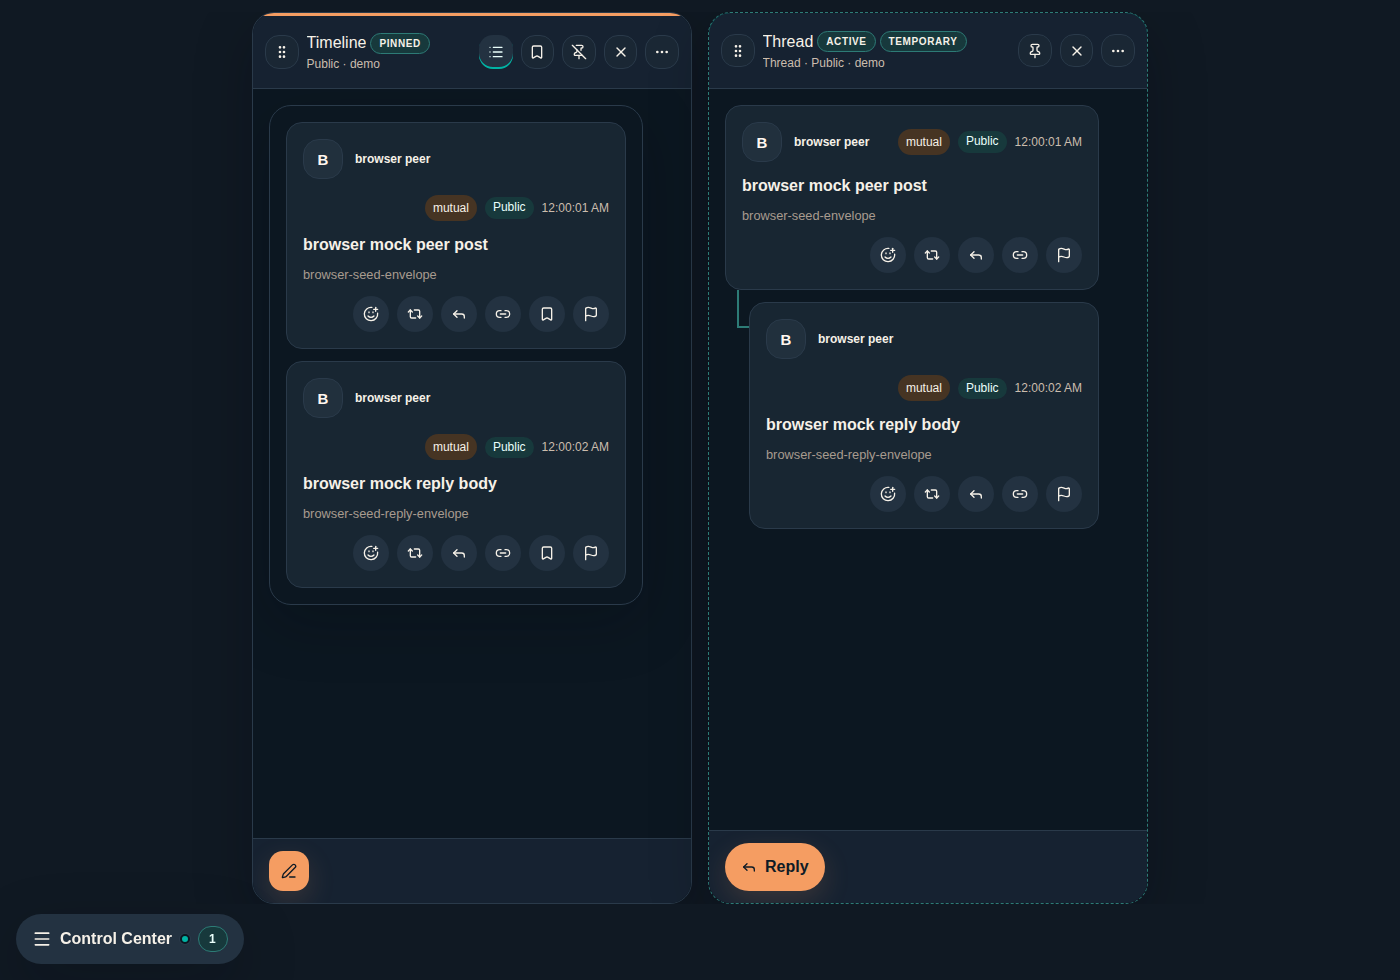
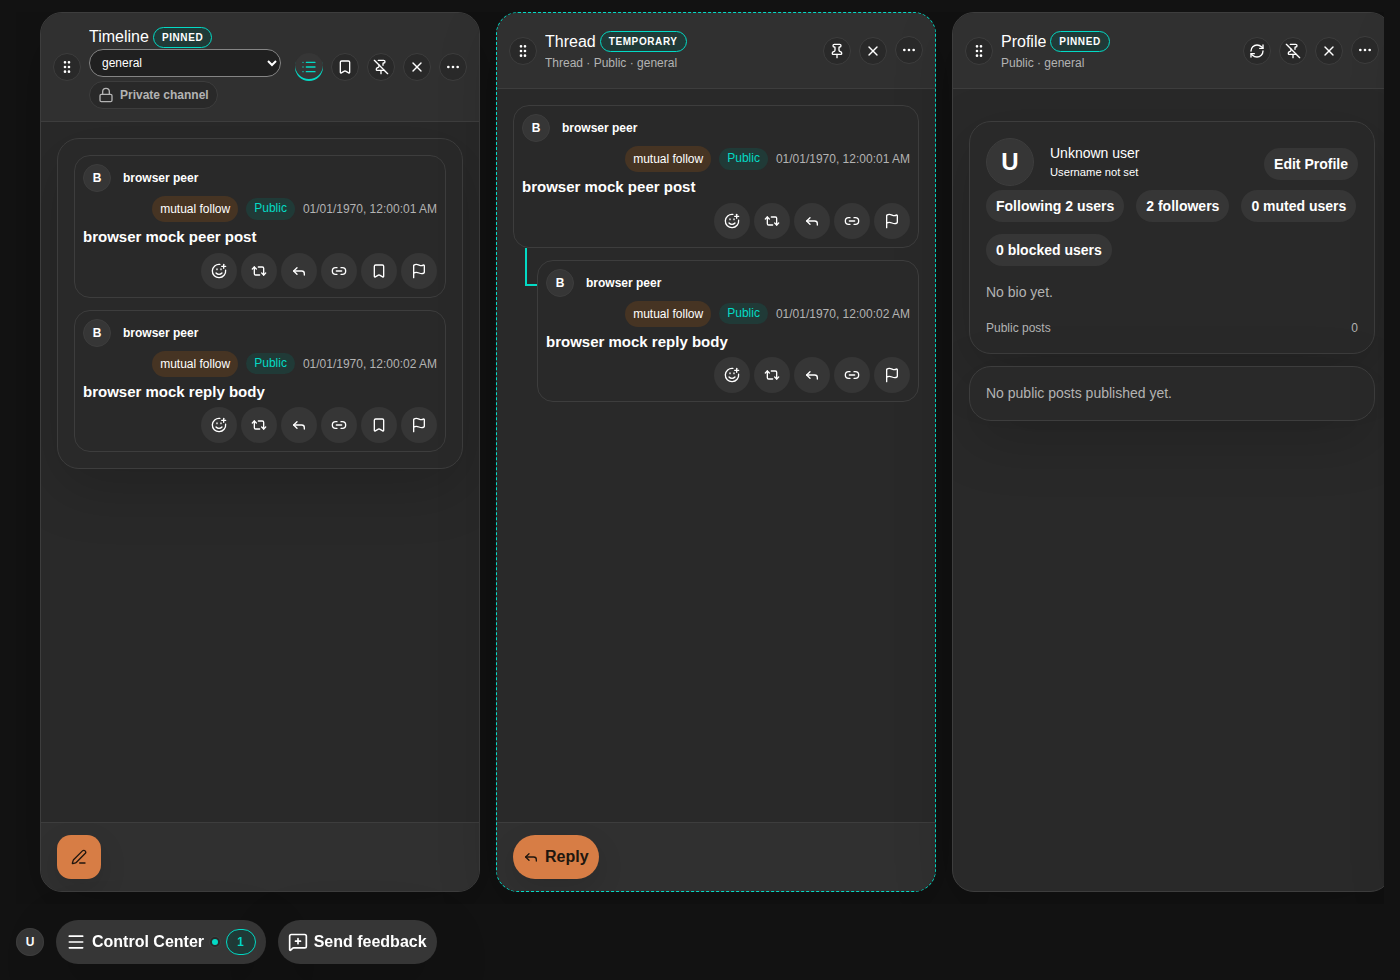
docs: READMEを v0.2.4-preview.1 時点の実装状況へ更新 (#1048)
- Linux 配布の参照を v0.2.0-preview.2 固定から最新 Release（v0.2.4-preview.1 以降、5本体同時公開）へ変更し、インストーラー署名と更新 manifest 署名を区別
- 「3分で試す」を実際の初回フロー（言語選択・年齢確認付きアプリ規約同意 → Community Node 規約同意 → プロフィール設定 → 投稿 → チャンネル → フィードバック）に合わせ、診断レポートが開発者モード限定である前提を明記
- Live / Game / Stream / Metaverse が既定で非表示であること、Metaverse Dome が実験機能で後方互換を保証しないことを記載
- ブロック、Community Index 検索、鍵の暗号化 export/import と複数アカウント、端末バックアップ／復元、年齢自己申告と成人向け既定非表示、多言語 UI とテーマ、アプリ内テスターフィードバック、開発者ログビューアを利用できる範囲へ追加
- CHANGELOG と docs/legal の各文書へのリンクを追加し、README.ja.md を同じ構造で同期
- スクリーンショットをブラウザ mock プレビュー（Timeline / Thread / Profile、現行ダークテーマ）で再撮影
- README と矛盾していた mvp-user-quickstart.md（リリース参照、診断レポートの前提、tauri:dev）、linux-cli.md（リリース参照）、Builder Preview 計画（Linux AppImage / Deb workstream を landed、Launch Checklist の公開項目を完了）を同期

Claude-Session: https://claude.ai/code/session_01VX9D3T6CskJn7bRn9pz2ba

diff --git a/README.md b/README.md
@@ -4,7 +4,7 @@ English | [日本語](./README.ja.md)
 
 kukuri is a topic-first P2P social app. Find a topic you care about, join a public conversation, or move into a smaller private channel while keeping your account and posts rooted on your own device.
 
-![kukuri desktop preview showing a topic timeline and its reply thread](./docs/assets/readme/kukuri-desktop-preview.png)
+![kukuri desktop preview showing Timeline, Thread, and Profile columns with the Control Center bar](./docs/assets/readme/kukuri-desktop-preview.png)
 
 ## Download the Builder Preview
 
@@ -16,41 +16,49 @@ kukuri is a topic-first P2P social app. Find a topic you care about, join a publ
 | Platform | Current support |
 | --- | --- |
 | Windows 10 / 11 | NSIS installer from the latest GitHub Release |
-| Linux | AppImage / Deb (x86_64), CLI (x86_64, aarch64), published together in [v0.2.0-preview.2](https://github.com/KingYoSun/kukuri/releases/tag/v0.2.0-preview.2) |
+| Linux | AppImage / Deb (x86_64) and CLI (x86_64, aarch64), published in the same Release as the Windows installer since `v0.2.4-preview.1` (2026-09-15); every Preview Release builds all five packages from one source |
 | macOS | No package is currently provided |
 
-Preview installers may be unsigned. Windows SmartScreen can therefore show a warning; check the release notes before running the installer.
+Preview installers do not carry an OS code signature, so Windows SmartScreen can show a warning; check the release notes before running the installer. In-app updates are separate: the update manifest is signed and the app rejects a tampered manifest.
 
-For detailed setup and recovery help, see the [user quickstart](./docs/runbooks/mvp-user-quickstart.md) and [troubleshooting guide](./docs/runbooks/mvp-troubleshooting.md).
+For detailed setup and recovery help, see the [user quickstart](./docs/runbooks/mvp-user-quickstart.md) and [troubleshooting guide](./docs/runbooks/mvp-troubleshooting.md). Released changes are listed in the [CHANGELOG](./CHANGELOG.md).
 
 ## What You Can Do
 
 - Find and follow topics, then publish posts and replies in threaded conversations.
 - Keep public posts and private channels under the same topic instead of splitting the community into separate spaces.
-- Follow people, react, repost, quote, bookmark posts, and mute users locally.
+- Follow people, react, repost, quote, bookmark posts, and mute or block users locally. Blocking hides posts in both directions.
+- Search and discover posts and topics through the Community Index of a consenting Community Node.
 - Exchange direct messages with mutual connections and share images or videos.
 - Receive local and operating-system notifications for replies, mentions, follows, reposts, and messages.
+- Export your account key as an encrypted passphrase-protected string, import it on another device, and switch between several accounts without restarting.
+- Back up one account to a single encrypted file and restore it on another device.
+- Use the app in Japanese, English, or Simplified Chinese with a light or dark theme.
 - Keep your account, posts, and local state across restarts, temporary offline periods, and Preview updates.
 
 ## Try It in 3 Minutes
 
 1. Install and launch the Windows Preview, use a published [Linux AppImage](docs/runbooks/linux-appimage-smoke.md) or [Deb](docs/runbooks/linux-deb.md), or [run from source](#development-quickstart). See [Linux CLI usage](docs/runbooks/linux-cli.md) for the separate CLI profile.
-2. Wait a few seconds for the preloaded Community Node to become `ready`, then open a starter topic.
-3. Publish a public post and reply to an existing post.
-4. Create or join a private channel under the same topic.
-5. Open `Settings -> Release`, export the diagnostic report, and send feedback through GitHub.
+2. On the first screen, pick a language, confirm that you are 18 or older, and accept the app terms and privacy policy. kukuri does not start any network connection until you accept.
+3. Read "What is a community node?", choose "Review terms", and accept that node's documents. Connection setup starts only after this explicit consent; choosing "Later" lets you resume from Explore or the Community Node settings.
+4. Open the Profile column and set your display name, username, and bio.
+5. Open a starter topic (`kukuri:topic:general`, `kukuri:topic:dev`, or `kukuri:topic:test`), publish a public post, and reply to an existing post.
+6. Create or join a private channel under the same topic from the "Private channel" button at the top of the Timeline column.
+7. Send feedback with the "Send feedback" button in the bottom bar (delivered to a Community Node that accepts tester feedback) or through GitHub. To attach a diagnostic report, enable developer mode in `Settings -> Developer`, then copy or export the report from `Settings -> Release`.
 
 The default diagnostic report omits secret keys, authentication tokens, private-channel secrets, invite/share tokens, direct-message bodies, and local database paths.
 
 ## Preview Status and Limits
 
 - Preview targets are Windows NSIS, Linux x86_64 AppImage / Deb, and Linux x86_64/aarch64 CLI. Availability follows the published Release asset list; generation alone is not publication. Deb updates require explicit application and OS authorization; cancellation does not trigger another authentication method. macOS has no package.
+- The first launch requires an age self-attestation and acceptance of the app terms; each Community Node additionally requires explicit consent to its own documents before the app uses it. Adult-labeled posts are hidden until you allow them in `Settings -> Safety`.
 - A direct message needs another test peer and a mutual relationship. P2P behavior is easiest to evaluate with two devices or two isolated app instances.
-- Live, Metaverse, and game-room surfaces are still evolving. Some extended features remain staged behind developer mode, and the Stream surface does not yet include a media player.
-- Preview updates are expected to preserve your account-identifying key, profile, follows, posts, local database state, Iroh data, Community Node settings, private-channel access, and the notification inbox. Keep the app data directory before uninstalling or resetting if you need to retain local state.
+- Live, Game, Stream, and Metaverse surfaces are hidden by default and appear only after enabling developer mode in `Settings -> Developer`. Metaverse Domes (Dome hosting, seamless transition, spatial audio, follow camera, connection map, and Dome management) are experimental: their data formats have no backward-compatible decoding or migration guarantee. The Stream surface does not yet include a media player.
+- Your account key is stored only on your device. There is no central reissue or recovery; use the encrypted key export or the device backup to keep a copy.
+- Preview updates are expected to preserve your account-identifying key, profile, follows, posts, local database state, Iroh data, Community Node settings, private-channel access, and the notification inbox. A device backup does not carry Community Node tokens, consent state, the age attestation, or the adult-content setting; you redo those after a restore. Keep a backup before uninstalling or resetting if you need to retain local state.
 - This is testing software. Please attach a sanitized diagnostic report when reporting connectivity, upgrade, or recovery problems.
 
-See the [Builder Preview plan](./docs/progress/2026-04-16-mvp-builder-preview-plan.md) for the current milestone and the [release runbook](./docs/runbooks/release.md) for packaging and data-safety gates.
+See the [Builder Preview plan](./docs/progress/2026-04-16-mvp-builder-preview-plan.md) for the current milestone, the [CHANGELOG](./CHANGELOG.md) for what each Preview Release changed, and the [release runbook](./docs/runbooks/release.md) for packaging and data-safety gates.
 
 ## How kukuri Works
 
@@ -67,20 +75,23 @@ The durable responsibility boundary is documented in [P2P-first Community Node r
 
 | Area | Current Builder Preview capability |
 | --- | --- |
-| Topics and posts | Topic discovery, public posts, replies and threads, reactions, reposts, quotes, bookmarks, and local mute |
+| Topics and posts | Topic discovery, Community Index search with indexing-status display, public posts, replies and threads, reactions, reposts, quotes, bookmarks, and local mute |
 | Private conversation | Invite-only, mutual-follow, and mutual-follow-plus channels with epoch-aware membership; pairwise mutual-only direct messages |
-| People and activity | Public profiles, follow/unfollow, mutual follows and connections through people you follow, local and OS notifications |
+| People and activity | Public profiles, follow/unfollow, block with two-way hiding, mutual follows and connections through people you follow, local and OS notifications |
 | Media | Image and video attachments in posts and direct messages |
-| Connectivity and recovery | Static-peer links, seeded DHT discovery, Community Node assistance, offline-capable local state, restart recovery, and late-join backfill |
-| Preview operations | In-app update checks, sanitized diagnostics, feedback links, provenance display, and distributed report routing |
+| Safety and account portability | Age self-attestation, adult self-labels hidden by default, encrypted account-key export/import, multi-account switching, and encrypted device backup/restore |
+| Localization and appearance | Japanese, English, and Simplified Chinese UI; light and dark themes tuned for WCAG 2.2 AA contrast |
+| Connectivity and recovery | Static-peer links, seeded DHT discovery, assistance only from Community Nodes you explicitly consented to, offline-capable local state, restart recovery, and late-join backfill |
+| Preview operations | In-app update checks, in-app tester feedback, sanitized diagnostics and an in-app log viewer in developer mode, provenance display, and distributed report routing |
+| Experimental (developer mode) | Live sessions, game rooms, the Stream column, and Metaverse Domes |
 
-The [foundation progress record](./docs/progress/2026-03-10-foundation.md), accepted [ADRs](./docs/adr/), tests, and [harness scenarios](./harness/scenarios/) define the detailed shipped baseline.
+The [foundation progress record](./docs/progress/2026-03-10-foundation.md) defines the Phase 6 baseline; later changes are tracked in the [CHANGELOG](./CHANGELOG.md), accepted [ADRs](./docs/adr/), tests, and [harness scenarios](./harness/scenarios/).
 
 ## Longer-Term Direction
 
 - Optional search, discovery, recommendation, gateway, and bridge services can grow around the P2P core without becoming mandatory canonical stores.
 - Community Node trust, moderation, policy-assist, and operator tooling can evolve within each node's declared capability and authority scope.
-- Live, Metaverse, game, and richer media experiences can mature without changing the topic-first ownership and synchronization boundaries.
+- Live, game, Stream, and Metaverse experiences are accepted and implemented as experimental features (ADR 0035 to 0045); promoting them into the product scope must not change the topic-first ownership and synchronization boundaries.
 
 These are directions, not a promise that every capability is available in the current Preview.
 
@@ -88,7 +99,8 @@ These are directions, not a promise that every capability is available in the cu
 
 - Report reproducible bugs and regressions in [GitHub Issues](https://github.com/KingYoSun/kukuri/issues).
 - Use [GitHub Discussions](https://github.com/KingYoSun/kukuri/discussions) for questions, product ideas, UX proposals, and early discussion of larger changes.
-- Include the sanitized report from `Settings -> Release` for connectivity, updater, and recovery problems.
+- The in-app "Send feedback" button delivers tester feedback to a Community Node that opts into receiving it.
+- For connectivity, updater, and recovery problems, enable developer mode in `Settings -> Developer` and include the sanitized report from `Settings -> Release`.
 - Community Node operators are welcome to report deployment, disclosure, moderation, and distributed-reporting feedback through the same GitHub entry points.
 
 ## Contributing
@@ -127,11 +139,12 @@ cargo xtask test
 cargo xtask e2e-smoke
 ```
 
-For browser-only frontend work, use `npx pnpm@10.16.1 --dir apps/desktop dev`. The [development runbook](./docs/runbooks/dev.md) lists targeted checks, UI validation, Community Node workflows, and platform-specific setup.
+Browser-level UI changes also run `cargo xtask desktop-ui-check`. For browser-only frontend work, use `npx pnpm@10.16.1 --dir apps/desktop dev`. The [development runbook](./docs/runbooks/dev.md) lists targeted checks, UI validation, Community Node workflows, and platform-specific setup.
 
 ## Documentation
 
 - [Documentation index](./docs/README.md)
+- [CHANGELOG](./CHANGELOG.md)
 - [Builder Preview plan](./docs/progress/2026-04-16-mvp-builder-preview-plan.md)
 - [Foundation and shipped baseline](./docs/progress/2026-03-10-foundation.md)
 - [User quickstart](./docs/runbooks/mvp-user-quickstart.md)
@@ -140,6 +153,7 @@ For browser-only frontend work, use `npx pnpm@10.16.1 --dir apps/desktop dev`. T
 - [Release runbook](./docs/runbooks/release.md)
 - [P2P-first Community Node responsibility boundary](./docs/architecture/p2p-first-community-node-responsibility-boundary.md)
 - [Architecture Decision Records](./docs/adr/)
+- [Terms of service](./docs/legal/terms-of-service.md), [privacy policy](./docs/legal/privacy-policy.md), and [external transmission notice](./docs/legal/external-transmission-notice.md)
 - [Third-party notices](./docs/THIRD_PARTY_NOTICES.md)
 
 ## License

diff --git a/docs/runbooks/mvp-user-quickstart.md b/docs/runbooks/mvp-user-quickstart.md
@@ -3,7 +3,7 @@
 ## 対象
 
 - Builder Previewを試すデスクトップ利用者向け
-- Windows NSIS、Linux x86_64 AppImage／Debを[v0.2.0-preview.2](https://github.com/KingYoSun/kukuri/releases/tag/v0.2.0-preview.2)で公開済み
+- Windows NSIS、Linux x86_64 AppImage／Debを[最新のGitHub Release](https://github.com/KingYoSun/kukuri/releases/latest)で同時公開済み（[v0.2.4-preview.1](https://github.com/KingYoSun/kukuri/releases/tag/v0.2.4-preview.1)以降、各Previewリリースは同一sourceから5本体を公開する）
 - Linuxは[AppImage手順](linux-appimage-smoke.md)または[Debの導入・署名付き更新・削除手順](linux-deb.md)を参照。CLI x86_64／aarch64も同Releaseで配布し、[専用手順](linux-cli.md)を参照
 
 ## 3分で試す
@@ -19,7 +19,7 @@
 6. 同じトピック内でプライベートチャンネルを作るか参加する。入口はタイムラインカラム上部の「プライベートチャンネル」ボタン、または「コントロールセンター → 場所 → チャンネル作成・参加」。招待・共有リンクは、参加後にタイムラインカラム上部の「設定と共有」（またはコントロールセンターのチャンネル設定）から作成する。
 7. 「見つける」「通知」「メッセージ」の各カラムを開き、主要機能の入口を確認する。同意後も検索が使えない場合は、表示された理由と「状態を再確認」または「コミュニティノード設定を開く」に従う。接続の手助けと検索機能の提供は別なので、検索非提供のノードでは別の検索提供ノードを選ぶ。
 8. 設定でコミュニティノードの診断情報を確認し、フィードバックを送る。
-9. 「設定 → リリース」で更新状態を確認し、診断レポートをコピーまたは書き出す。
+9. 「設定 → リリース」で更新状態を確認する。診断レポートのコピー・書き出しは「設定 → 開発者」で開発者モードを有効にしたときだけ「設定 → リリース」に表示される。
 
 ## 確認するポイント
 
@@ -39,14 +39,15 @@ cargo xtask doctor
 
 cd apps/desktop
 npx pnpm@10.16.1 install
-npx pnpm@10.16.1 dev
+npx pnpm@10.16.1 tauri:dev
 ```
 
-起動後の確認ポイントはWindowsプレビューと同じです。
+`tauri:dev`はデスクトップアプリ本体（Tauriバックエンド込み）を起動する。`npx pnpm@10.16.1 dev`はブラウザーだけでフロントエンドを表示する開発用で、P2P・保存・更新は動作しない。起動後の確認ポイントはWindowsプレビューと同じです。
 
 ## フィードバック
 
-- 「設定 → リリース」の診断レポートと一緒にGitHubへフィードバックを送る
+- 下部バーの「フィードバックを送る」からテスターフィードバックを受け付けるコミュニティノードへ送るか、GitHubへ送る
+- 診断レポートは「設定 → 開発者」で開発者モードを有効にしてから「設定 → リリース」で取得し、GitHubへの報告に添える
 - 診断レポートは秘密鍵、認証トークン、プライベートチャンネルの秘密情報、招待・共有トークン、DM本文、端末内データベースの保存先を既定で含まない
 - 特に聞きたいのは次の 3 点です
   - トピック中心の使い方が最初に伝わったか

diff --git a/docs/progress/2026-04-16-mvp-builder-preview-plan.md b/docs/progress/2026-04-16-mvp-builder-preview-plan.md
@@ -41,8 +41,8 @@
 | Device backup / restore | landed | repo change | 使用中の1アカウントを1暗号化ファイルへ保存し、staging検証・rollback・再同意付きで復元 |
 | Windows release workflow | landed | repo change | tag / manual dispatch で NSIS asset を Release に載せる |
 | Linux共通基盤／常駐プロセス／CLI通信規約 | implemented | repo change | #886〜#888完了。GUIと分離したprofile・単一所有・版管理protocol・1入力1実行を維持 |
-| Linux AppImage／リリース統合 | in progress | repo change | #889完了、#890で公開統合中。Ubuntu 22.04 buildと代表実機証跡を採用し、追加OS／XWayland全件検証は延期。公開物の全件整合とCLI arch smokeを確認する |
-| Linux Deb配布／署名付き更新 | in progress | repo change | #905、#890の公開前追加依存。同一buildのamd64 Deb、形式別manifest、単一OS認証・取消停止、手持ちUbuntu Desktopでの保持確認を追加。公開済みとはしない |
+| Linux AppImage／リリース統合 | landed | repo change | #889・#890完了。Ubuntu 22.04 buildと代表実機証跡を採用し、追加OS／XWayland全件検証は延期。v0.2.0-preview.2以降の各Preview Releaseで公開物の全件整合とCLI arch smokeを確認済み（[#890記録](./2026-09-07-issue-890-linux-release-integration.md)、[v0.2.4-preview.1公開記録](./2026-09-15-v0.2.4-preview.1-release-rollout.md)） |
+| Linux Deb配布／署名付き更新 | landed | repo change | #905完了。同一buildのamd64 Deb、形式別manifest、単一OS認証・取消停止、手持ちUbuntu Desktopでの保持確認を追加し、v0.2.0-preview.2以降の各Preview Releaseで公開済み（[#905記録](./2026-09-07-issue-905-linux-deb-updater.md)） |
 | Seed content on hosted preview node | planned | launch op | project-owned author で preview topics を事前投入する |
 | GitHub feedback surface | planned | launch op | Discussions category か同等の GitHub feedback home を整備する |
 
@@ -66,7 +66,7 @@
 - [ ] hosted preview node 上で starter topic seed content を確認
 - [ ] GitHub feedback surface を preview copy から辿れるようにする
 - [ ] packaged Windows app で `launch -> ready -> post -> reply -> private channel` を手動確認
-- [ ] #885の全親AC／INVARと#905の追加条件を満たし、Linux AppImage／Debとx86_64／aarch64 CLIをWindows成果物と同じPreview Releaseへ完全に公開
+- [x] #885の全親AC／INVARと#905の追加条件を満たし、Linux AppImage／Debとx86_64／aarch64 CLIをWindows成果物と同じPreview Releaseへ完全に公開（v0.2.0-preview.2で初公開、以降の各Releaseで継続。[v0.2.4-preview.1公開記録](./2026-09-15-v0.2.4-preview.1-release-rollout.md)）
 
 ## Assumptions
 

diff --git a/docs/runbooks/linux-cli.md b/docs/runbooks/linux-cli.md
@@ -1,6 +1,6 @@
 # Linux CLIの利用
 
-Linux CLIの配布対象はx86_64／aarch64。[v0.2.0-preview.2](https://github.com/KingYoSun/kukuri/releases/tag/v0.2.0-preview.2)で両archを公開済み。
+Linux CLIの配布対象はx86_64／aarch64。[v0.2.0-preview.2](https://github.com/KingYoSun/kukuri/releases/tag/v0.2.0-preview.2)以降の各Previewリリースで両archを[最新のGitHub Release](https://github.com/KingYoSun/kukuri/releases/latest)に同時公開している。
 `kukuri-cli_<version>_<target>.tar.gz`を展開し、`bin/kukuri-cli --version`で版を確認する。
 別の版を使う場合も、取得先と提供archはそのReleaseの成果物一覧を確認する。
 
